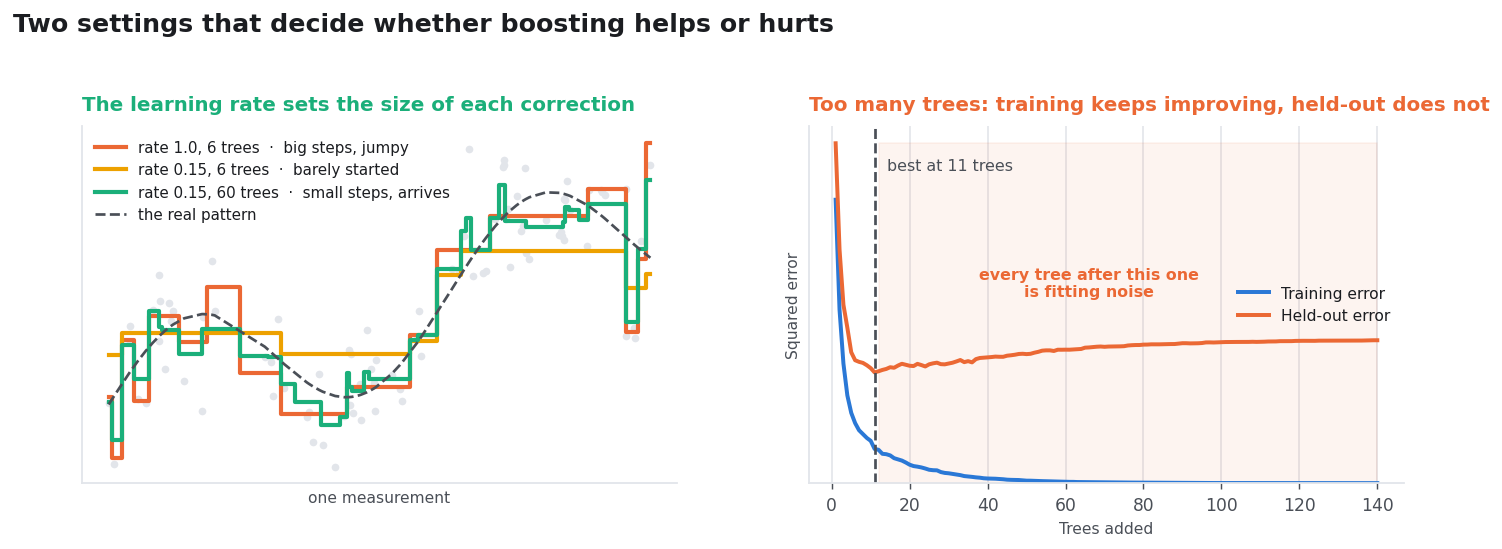
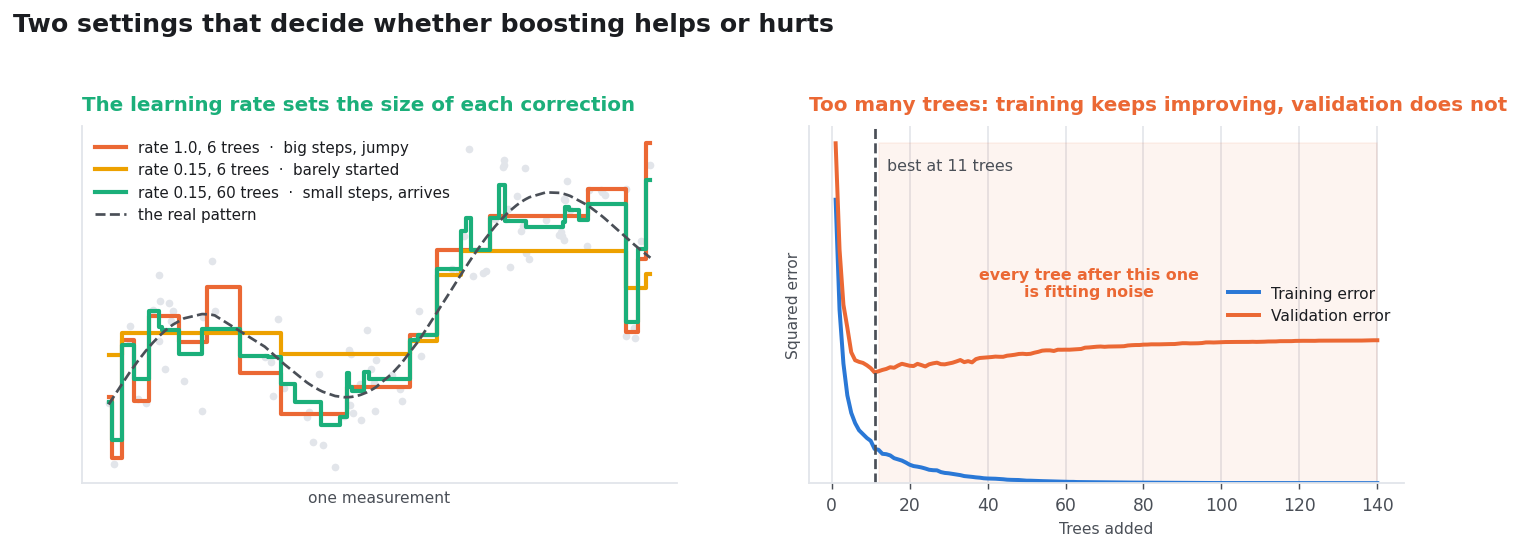
Tighten validation/test terminology, and label fig10's upper axis
Across the site "held-out" meant the test set, but two Module 5 figures
used it for the validation set, which could read as if the test set were
being watched during tuning - exactly what the three-way split exists to
prevent. Both now say "validation" explicitly, as does the prose that
describes early stopping and the staged curves.

Also gives the upper panel of fig10 its own decade tick labels and axis
title. The two panels share an x axis, so the upper one previously had
no labels at all and could not be read on its own, which matters when a
single panel is lifted into a slide. Moves the "2 weeks" annotation off
the line it was sitting on.

Model numbers are unchanged; the fixed seed reproduces every metrics
file byte for byte.

Claude-Session: https://claude.ai/code/session_015hW5mXRyffbCt2nWwzxZ4Z

diff --git a/docs/gradientboosting.html b/docs/gradientboosting.html
@@ -103,16 +103,16 @@ trees</b> is the other side of that trade, and it is the setting that can quietl
 model. Because the running total is always being fitted to its own remaining error, and because
 some of that error is noise rather than signal, a long enough sequence will start modelling the
 accidents of the training set. Training error keeps falling the whole time &mdash; that is what
-makes it dangerous. The only way to see the problem is to score held-out data after every tree and
-watch for the point where it stops improving.</p>
+makes it dangerous. The only way to see the problem is to score a separate validation set after
+every tree and watch for the point where it stops improving.</p>
 
 <figure>
-  <img src="images/diag_gb_learning_rate_dark.png" data-light="images/diag_gb_learning_rate.png" data-dark="images/diag_gb_learning_rate_dark.png" loading="lazy" decoding="async" alt="Two panels: three fitted curves at different learning rates and tree counts on the left, and training error falling while held-out error turns upward on the right.">
+  <img src="images/diag_gb_learning_rate_dark.png" data-light="images/diag_gb_learning_rate.png" data-dark="images/diag_gb_learning_rate_dark.png" loading="lazy" decoding="async" alt="Two panels: three fitted curves at different learning rates and tree counts on the left, and training error falling while validation error turns upward on the right.">
   <figcaption><b>Two settings that decide whether boosting helps or hurts.</b> On the left, the same
   problem approached three ways: big steps arrive quickly but jaggedly, small steps with too few
   trees barely leave the starting point, and small steps with enough trees land closest to the real
   pattern. On the right, the overfitting picture, measured on a real run &mdash; training error
-  falls forever while held-out error bottoms out and climbs. Everything in the shaded region is a
+  falls forever while validation error bottoms out and climbs. Everything in the shaded region is a
   tree fitted to noise.</figcaption>
 </figure>
 
@@ -292,7 +292,7 @@ same.</p>
 
 <p>One tab remains, and the honest expectation for it can be stated before the results arrive.
 XGBoost is a more refined implementation of exactly the mechanism described here, with an explicit
-penalty on complexity and a stopping rule that uses held-out data directly. It should edge ahead of
+penalty on complexity and a stopping rule that reads the validation set directly. It should edge ahead of
 gradient boosting on ranking by a small amount, and it should land in precisely the same place on
 accuracy. If that is what happens, the ceiling is not an artefact of any one method, and the
 project's central claim can be made with some confidence.</p>

diff --git a/docs/content/gradientboosting.html b/docs/content/gradientboosting.html
@@ -51,16 +51,16 @@ trees</b> is the other side of that trade, and it is the setting that can quietl
 model. Because the running total is always being fitted to its own remaining error, and because
 some of that error is noise rather than signal, a long enough sequence will start modelling the
 accidents of the training set. Training error keeps falling the whole time &mdash; that is what
-makes it dangerous. The only way to see the problem is to score held-out data after every tree and
-watch for the point where it stops improving.</p>
+makes it dangerous. The only way to see the problem is to score a separate validation set after
+every tree and watch for the point where it stops improving.</p>
 
 <figure>
-  <img src="images/diag_gb_learning_rate.png" alt="Two panels: three fitted curves at different learning rates and tree counts on the left, and training error falling while held-out error turns upward on the right.">
+  <img src="images/diag_gb_learning_rate.png" alt="Two panels: three fitted curves at different learning rates and tree counts on the left, and training error falling while validation error turns upward on the right.">
   <figcaption><b>Two settings that decide whether boosting helps or hurts.</b> On the left, the same
   problem approached three ways: big steps arrive quickly but jaggedly, small steps with too few
   trees barely leave the starting point, and small steps with enough trees land closest to the real
   pattern. On the right, the overfitting picture, measured on a real run &mdash; training error
-  falls forever while held-out error bottoms out and climbs. Everything in the shaded region is a
+  falls forever while validation error bottoms out and climbs. Everything in the shaded region is a
   tree fitted to noise.</figcaption>
 </figure>
 
@@ -240,7 +240,7 @@ same.</p>
 
 <p>One tab remains, and the honest expectation for it can be stated before the results arrive.
 XGBoost is a more refined implementation of exactly the mechanism described here, with an explicit
-penalty on complexity and a stopping rule that uses held-out data directly. It should edge ahead of
+penalty on complexity and a stopping rule that reads the validation set directly. It should edge ahead of
 gradient boosting on ranking by a small amount, and it should land in precisely the same place on
 accuracy. If that is what happens, the ceiling is not an artefact of any one method, and the
 project's central claim can be made with some confidence.</p>

diff --git a/docs/content/xgboost.html b/docs/content/xgboost.html
@@ -270,8 +270,8 @@ methods, four modules and a few hundred fitted models agree on the same answer.<
 <p>XGBoost did what it was brought in to do, which was to establish a ceiling rather than to break
 one. It is the strongest result in the project by the measure that distinguishes these models
 &mdash; an ROC AUC of 0.766 on the held-out songs, ahead of everything else tried &mdash; reached
-with a regularised objective, a 24-configuration search and a stopping rule that watched held-out
-data round by round. The reward over ordinary gradient boosting, which searched a
+with a regularised objective, a 24-configuration search and a stopping rule that watched the
+validation set round by round. The reward over ordinary gradient boosting, which searched a
 smaller grid, carried no explicit penalty on complexity and had to recover its tree count after
 the fact, was 0.0021 AUC. When the best available tool, tuned
 properly, beats a simpler version of itself by two parts in a thousand, the tool is no longer the

diff --git a/docs/xgboost.html b/docs/xgboost.html
@@ -322,8 +322,8 @@ methods, four modules and a few hundred fitted models agree on the same answer.<
 <p>XGBoost did what it was brought in to do, which was to establish a ceiling rather than to break
 one. It is the strongest result in the project by the measure that distinguishes these models
 &mdash; an ROC AUC of 0.766 on the held-out songs, ahead of everything else tried &mdash; reached
-with a regularised objective, a 24-configuration search and a stopping rule that watched held-out
-data round by round. The reward over ordinary gradient boosting, which searched a
+with a regularised objective, a 24-configuration search and a stopping rule that watched the
+validation set round by round. The reward over ordinary gradient boosting, which searched a
 smaller grid, carried no explicit penalty on complexity and had to recover its tree count after
 the fact, was 0.0021 AUC. When the best available tool, tuned
 properly, beats a simpler version of itself by two parts in a thousand, the tool is no longer the

diff --git a/code/03_eda_visualizations.py b/code/03_eda_visualizations.py
@@ -278,8 +278,10 @@ def main():
     ax1.annotate(f"{med[peak]:.0f} weeks", xy=(xs[peak], med[peak]), xytext=(0, 11),
                  textcoords="offset points", ha="center", color=C[2],
                  fontweight="bold", fontsize=9.5)
-    ax1.annotate(f"{med[-1]:.0f} weeks", xy=(xs[-1], med[-1]), xytext=(-4, 12),
-                 textcoords="offset points", ha="right", color=C[2],
+    # Placed level with the point rather than above it: the line drops into
+    # this point from the upper left, so anything above it sits on the line.
+    ax1.annotate(f"{med[-1]:.0f} weeks", xy=(xs[-1], med[-1]), xytext=(-12, 0),
+                 textcoords="offset points", ha="right", va="center", color=C[2],
                  fontweight="bold", fontsize=9.5)
     ax1.set_ylim(0, max(med) * 1.35)
     finish(ax1, "Chart runs peaked in the 2000s and then collapsed",
@@ -292,6 +294,12 @@ def main():
                  fontsize=9.3, fontweight="bold", color=INK_SOFT)
     ax2.set_ylim(0, max(one) * 1.30)
     ax2.set_xticks(xs, [f"{int(d)}s" for d in decades])
+    # The panels share an x axis, which would normally hide the upper one's
+    # tick labels. They are turned back on so that either panel can be read,
+    # or lifted into a slide, on its own.
+    ax1.set_xticks(xs, [f"{int(d)}s" for d in decades])
+    ax1.tick_params(axis="x", labelbottom=True)
+    ax1.set_xlabel("Decade the song debuted on the chart")
     finish(ax2, "Because four in ten entries now last a single week",
            "Share of charting songs that appeared for exactly one week and then vanished",
            None, "Share of songs (%)")

diff --git a/code/19_concept_diagrams_m5.py b/code/19_concept_diagrams_m5.py
@@ -177,7 +177,7 @@ def diagram_gb_learning_rate():
     n = np.arange(1, 141)
     k = int(np.argmin(va_err)) + 1
     a2.plot(n, tr_err, color=C[0], linewidth=2.2, label="Training error")
-    a2.plot(n, va_err, color=C[1], linewidth=2.2, label="Held-out error")
+    a2.plot(n, va_err, color=C[1], linewidth=2.2, label="Validation error")
     a2.axvline(k, color=theme.INK_SOFT, linestyle="--", linewidth=1.5)
     a2.annotate(f"best at {k} trees", xy=(k, max(va_err) * 0.92), xytext=(7, 0),
                 textcoords="offset points", fontsize=8.8, color=theme.INK_SOFT)
@@ -188,7 +188,7 @@ def diagram_gb_learning_rate():
     a2.legend(fontsize=8.6, loc="center right")
     a2.set_xlabel("Trees added", fontsize=8.6); a2.set_ylabel("Squared error", fontsize=8.6)
     a2.set_yticks([])
-    panel(a2, "Too many trees: training keeps improving, held-out does not", C[1])
+    panel(a2, "Too many trees: training keeps improving, validation does not", C[1])
 
     head(fig, "Two settings that decide whether boosting helps or hurts")
     save(fig, "diag_gb_learning_rate.png")

diff --git a/code/17_gradient_boosting.py b/code/17_gradient_boosting.py
@@ -269,8 +269,8 @@ def main():
         vmin = int(np.argmin(cur["val_loss"])) + 1
         a1.scatter([vmin], [min(cur["val_loss"])], s=150, facecolor="none",
                    edgecolor=C[1], linewidth=2.0, zorder=6)
-        finish(a1, "Training error keeps falling. Held-out error bottoms out and "
-                   "turns back up.",
+        finish(a1, "Training error keeps falling. Validation error bottoms out "
+                   "and turns back up.",
                f"Log loss after every tree is added. The two lines start together;\n"
                f"validation bottoms out at {vmin} trees, and the gap after that "
                f"is overfitting.",
